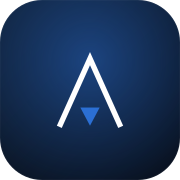
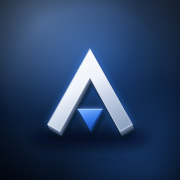
feat: el icono de anclar al inicio pasa a 3D con luz
La A extruida en metal sobre una placa navy con foco y halo azul, sin
esquinas propias (iOS y Android recortan con su forma). Suma 192/512 y
maskable al manifest, que apuntaba a /icon y no existia como PNG.

diff --git a/app/manifest.ts b/app/manifest.ts
@@ -12,8 +12,13 @@ export default function manifest(): MetadataRoute.Manifest {
     theme_color: "#07101d",
     lang: "es-AR",
     categories: ["business", "technology"],
+    // Generados por scripts/generar-icono-app.mjs. El maskable lleva la A más
+    // chica porque Android lo recorta con su forma (círculo, gota) y sólo
+    // garantiza el 80% del centro.
     icons: [
-      { src: "/icon", sizes: "512x512", type: "image/png" },
+      { src: "/icons/icon-192.png", sizes: "192x192", type: "image/png", purpose: "any" },
+      { src: "/icons/icon-512.png", sizes: "512x512", type: "image/png", purpose: "any" },
+      { src: "/icons/maskable-512.png", sizes: "512x512", type: "image/png", purpose: "maskable" },
     ],
   };
 }
